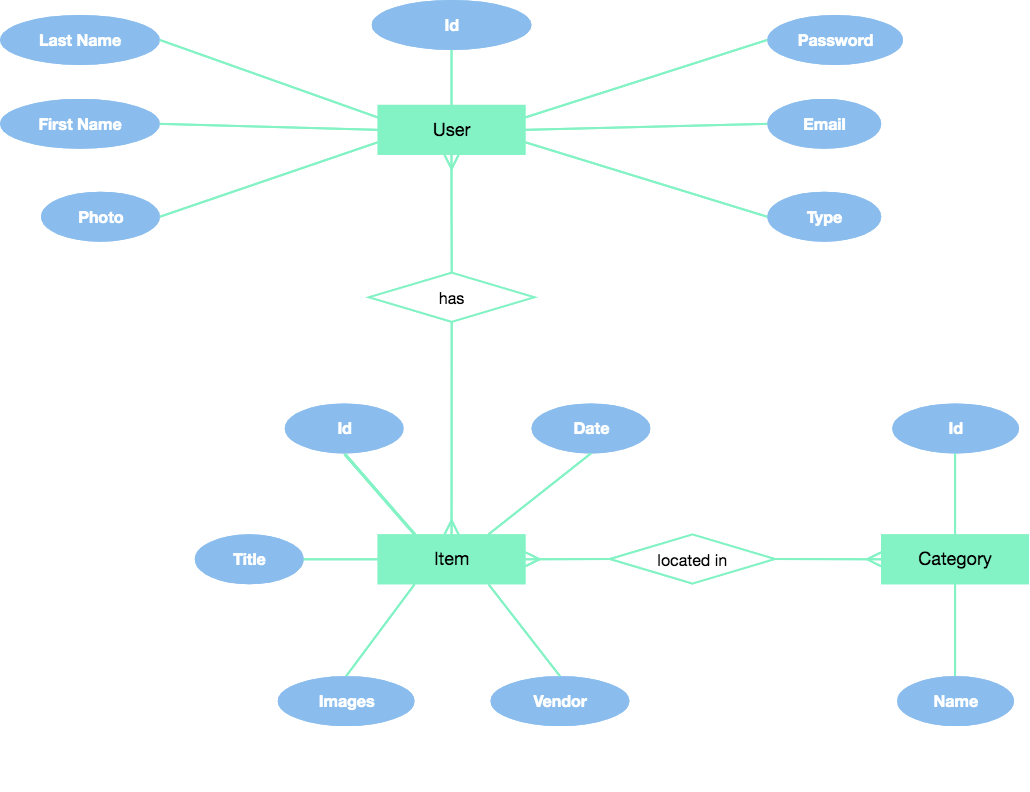
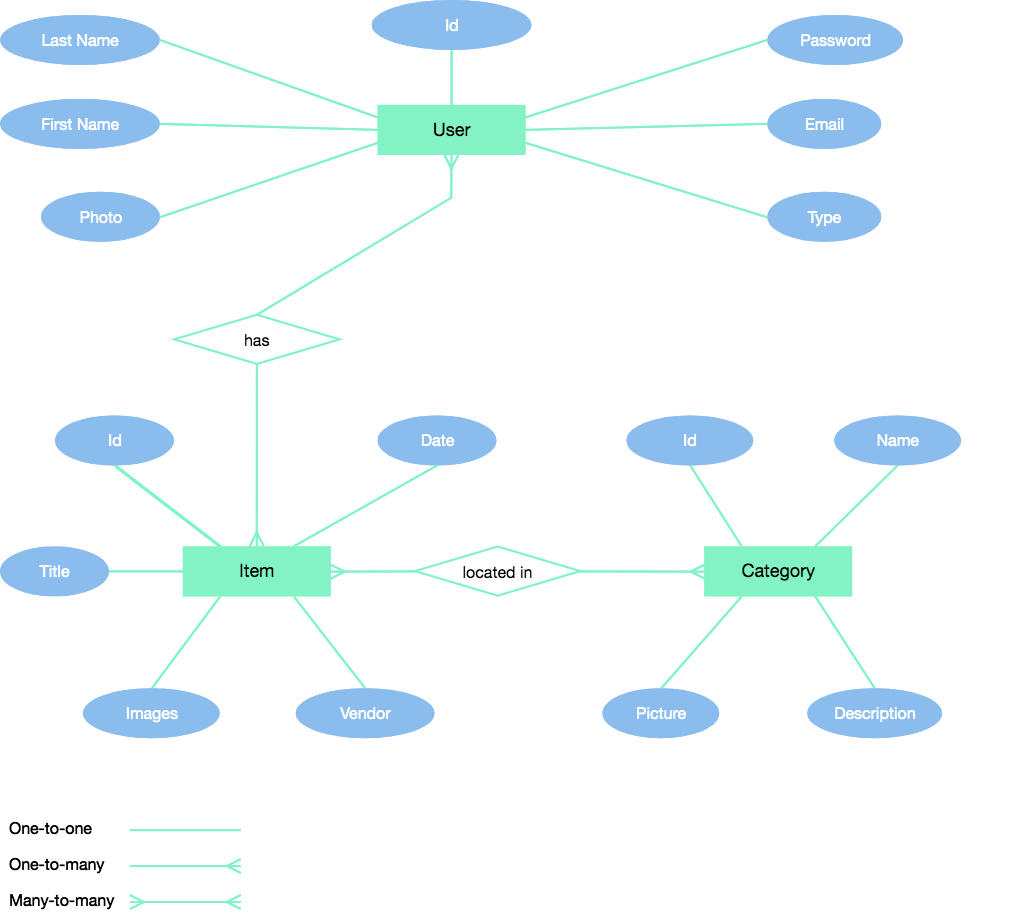
update conceptual data model diagram

diff --git a/README.md b/README.md
@@ -25,7 +25,7 @@ Inventory management and product promotion.
 * Read technical specifications
 * View high reolution images
 * Watch promotional videos
-* Download product brochure
+* Download product brochures
 * Contact the supplier
 * Print product details
 
@@ -33,7 +33,7 @@ Inventory management and product promotion.
 
 * Simple inventory management
 * Product promotion
-* Analytics
+* Data analytics
 
 ### #2 Scope
 
@@ -155,7 +155,7 @@ High fidelity design mockups.
 
 ## Tech
 
-...
+Diagrams made with https://cacoo.com/
 
 ## Testing
 
